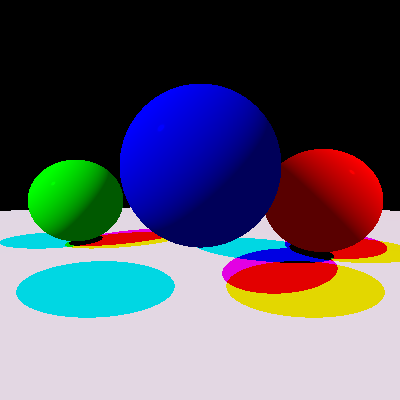
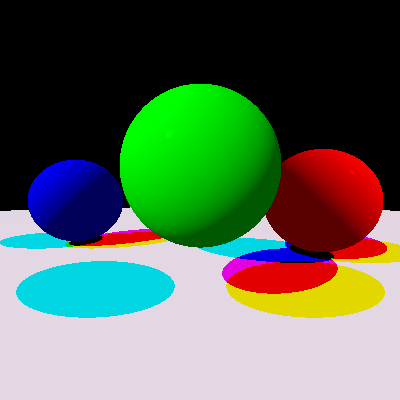
TexturedPhongMaterial ergaenzt

Changed region(s): [[0.06, 0.21, 0.72, 0.63]]

diff --git a/src/cgg/a04/Main.java b/src/cgg/a04/Main.java
@@ -1,5 +1,6 @@
 package cgg.a04;
 
+import static tools.Color.black;
 import static tools.Color.blue;
 import static tools.Color.green;
 import static tools.Color.red;
@@ -10,6 +11,7 @@ import cgg.a02.*;
 import java.util.ArrayList;
 
 import cgg.Image;
+import cgg.a01.ConstantColor;
 
 //gleicher Code wie die Main-Methode vom Package a01
 public class Main {
@@ -30,10 +32,10 @@ public class Main {
 
     //Szene mit Kugeln erstellen
     ArrayList<Kugel> k = new ArrayList<>(); //auskommentiert, da Konstruktor veraendert
-    k.add(new Kugel(vec3(0,1001,-15), 1000, new PhongMaterial(white, white, 1000.0)));
-    k.add(new Kugel(vec3(2.3,0,-4), 1, new PhongMaterial(red, white, 1000.0)));
-    k.add(new Kugel(vec3(-3,0,-5), 1, new PhongMaterial(green, white, 1000.0)));
-    k.add(new Kugel(vec3(0,-0.3,-2), 0.75, new PhongMaterial(blue, white, 1000.0)));
+    k.add(new Kugel(vec3(0,1001,-15), 1000, new TexturedPhongMaterial(new ConstantColor(white), new ConstantColor(white), new ConstantColor(color(1000.0)))));
+    k.add(new Kugel(vec3(2.3,0,-4), 1, new TexturedPhongMaterial(new ConstantColor(red), new ConstantColor(white), new ConstantColor(color(1000.0)))));
+    k.add(new Kugel(vec3(-3,0,-5), 1, new TexturedPhongMaterial(new ConstantColor(blue), new ConstantColor(white), new ConstantColor(color(1000.0)))));
+    k.add(new Kugel(vec3(0,-0.3,-2), 0.75, new TexturedPhongMaterial(new ConstantColor(green), new ConstantColor(white), new ConstantColor(color(1000.0)))));
 
     Kugelgruppe kugelScene = new Kugelgruppe(k); //erstellt Szene mit Kugeln
 

diff --git a/src/cgg/a02/Kugel.java b/src/cgg/a02/Kugel.java
@@ -32,8 +32,18 @@ public class Kugel {
         double t1 = (-b + Math.sqrt(b* b - 4 * a * c))/(2 * a); //ABC-Formel mit +
         double t2 = (-b - Math.sqrt(b* b - 4 * a * c))/(2 * a); //ABC-Formel mit -
 
-        Hit hit = new Hit(t1, r.gibStrahlPunkt(t1), divide(subtract(r.gibStrahlPunkt(t1), mittelpunkt),radius) , material, this); //Trefferpunkt fuer t1 berechnen
-        Hit hit2 = new Hit(t2, r.gibStrahlPunkt(t2), divide(subtract(r.gibStrahlPunkt(t2), mittelpunkt),radius) , material, this);
+        Vec3 punkt1 = r.gibStrahlPunkt(t1);
+        Vec3 punkt2 = r.gibStrahlPunkt(t2);
+        //uv berechnen
+        double u1 = (Math.atan(punkt1.u()/punkt1.w()) + Math.PI)/(2 * Math.PI);
+        double u2 = (Math.atan(punkt2.u()/punkt2.w()) + Math.PI)/(2 * Math.PI);
+        double v1 = (Math.PI - Math.acos(punkt1.v()/radius))/(Math.PI);
+        double v2 = (Math.PI - Math.acos(punkt2.v()/radius))/(Math.PI);
+        Vec2 uv1 = vec2(u1,v1);
+        Vec2 uv2 = vec2(u2,v2);
+
+        Hit hit = new Hit(t1, punkt1, divide(subtract(r.gibStrahlPunkt(t1), mittelpunkt),radius) , material, this, uv1); //Trefferpunkt fuer t1 berechnen
+        Hit hit2 = new Hit(t2, punkt2, divide(subtract(r.gibStrahlPunkt(t2), mittelpunkt),radius) , material, this, uv2);
         if(b* b - 4 * a * c < 0) { //Wurzel ist negativ, keine Loesung
             return null;
         }

diff --git a/src/cgg/a02/Hit.java b/src/cgg/a02/Hit.java
@@ -11,8 +11,9 @@ public class Hit {
     private Vec3 normalenVektor;
     private Material material;
     private Kugel kugel; //Kugel auf welcher der Trefferpunkt liegt, fuer Schattenberechnung benoetigt
+    private Vec2 uv;
 
-    public Hit(double t, Vec3 trefferPunkt, Vec3 normalenVektor, Material material, Kugel kugel) {
+    public Hit(double t, Vec3 trefferPunkt, Vec3 normalenVektor, Material material, Kugel kugel, Vec2 uv) {
         this.t = t;
         this.trefferPunkt = trefferPunkt;
         if(normalenVektor != null) {
@@ -20,6 +21,14 @@ public class Hit {
         }
         this.material = material;
         this.kugel = kugel;
+        this.uv = uv;
+    }
+
+    /**
+     * @return Vektor der die Werte u und v darstellt
+     */
+    public Vec2 getuv() {
+        return uv;
     }
 
     /**

diff --git a/src/cgg/a04/TexturedPhongMaterial.java b/src/cgg/a04/TexturedPhongMaterial.java
@@ -1,0 +1,23 @@
+package cgg.a04;
+
+import static tools.Color.white;
+
+import cgg.a02.Hit;
+import tools.Color;
+import tools.Sampler;
+
+public record TexturedPhongMaterial(Sampler kd, Sampler ks, Sampler ke) implements Material {
+
+    public Color baseColor(Hit h) {
+        return kd.getColor(h.getuv());
+    }
+
+    public Color specular(Hit h) {
+        return ks.getColor(h.getuv());
+    }
+
+    public double shininess(Hit h) {
+        return ke.getColor(h.getuv()).b();
+    }
+
+}
